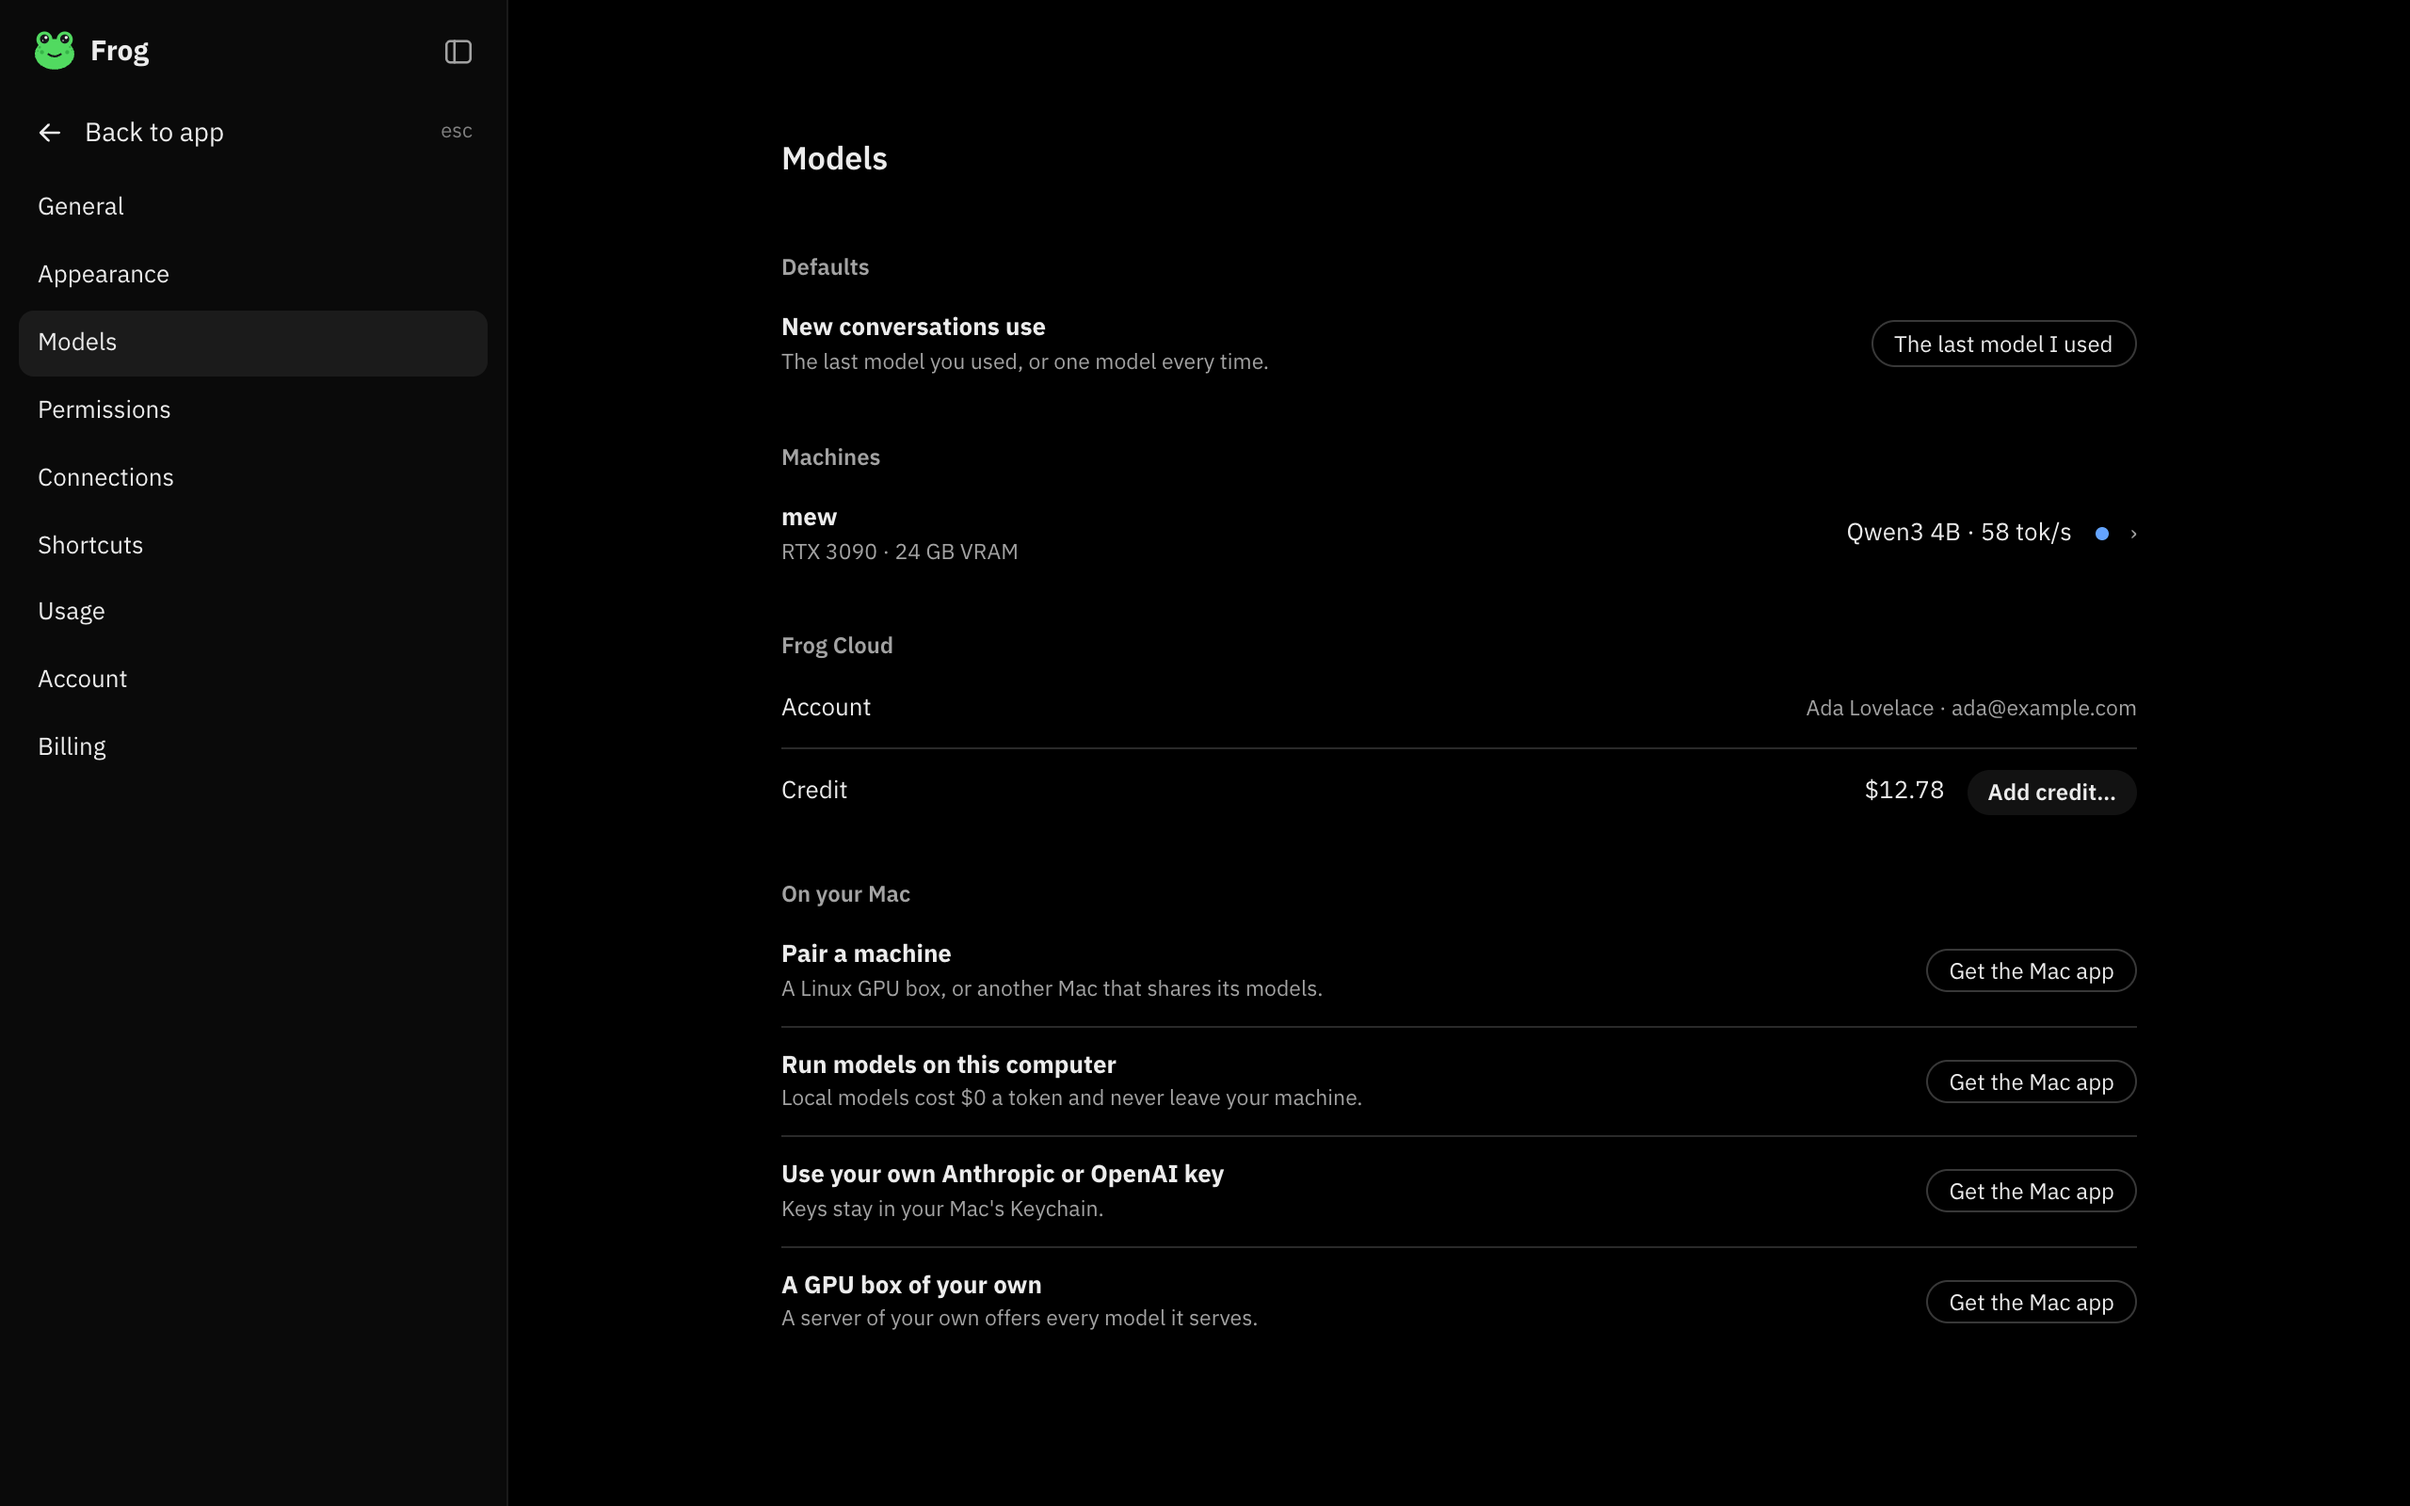
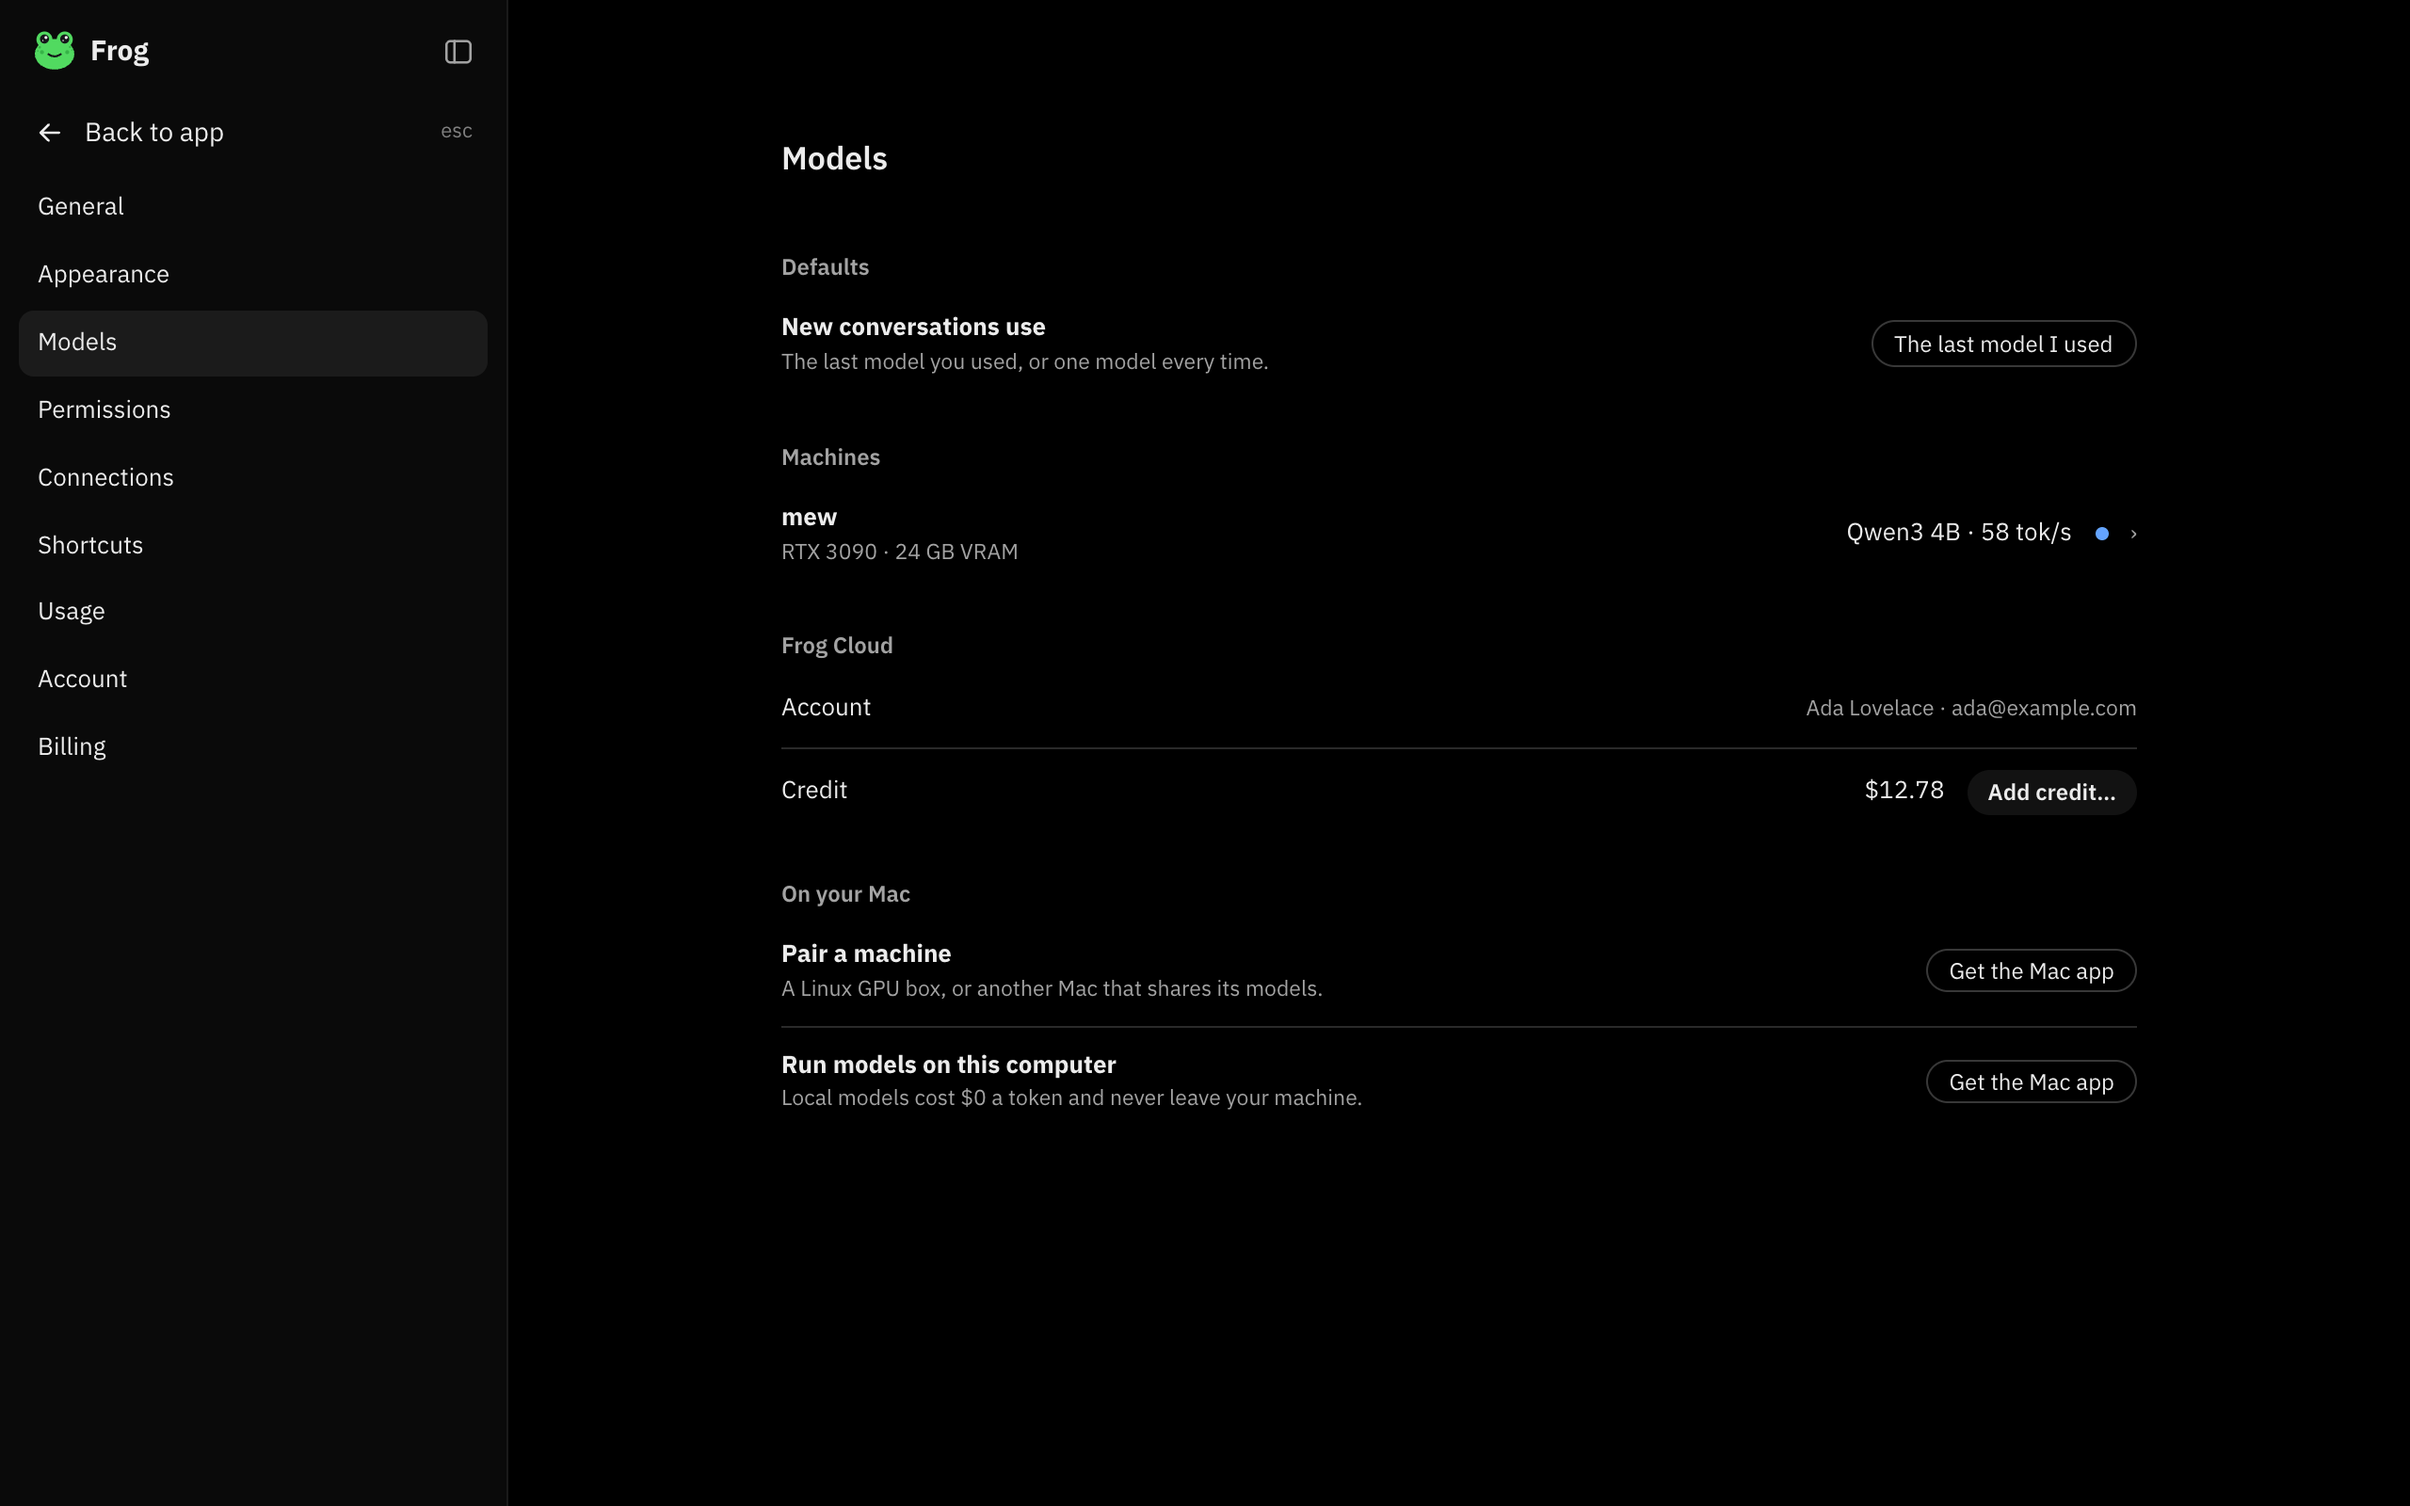
web: drop the provider and server invitations the Mac hides

diff --git a/apps/web/test/download.test.ts b/apps/web/test/download.test.ts
@@ -93,7 +93,7 @@ test("Settings › Models: the Mac's rows sit under On your Mac, each with Get t
   const html = asVisitor(MAC_UA, () => settings([mew]));
   assert.ok(html.indexOf("On your Mac") > html.indexOf("Frog Cloud"), "invitations come after the working rows");
   const pills = invites(html);
-  assert.deepEqual(Object.keys(pills), ["pair-machine", "local-models", "other-clouds", "servers"]);
+  assert.deepEqual(Object.keys(pills), ["pair-machine", "local-models"]);
   for (const [id, a] of Object.entries(pills)) assert.match(a, /href="\/download"[^>]*>Get the Mac app</, id);
   assert.match(html, /Run models on this computer/, "the invitation's web words");
 });
